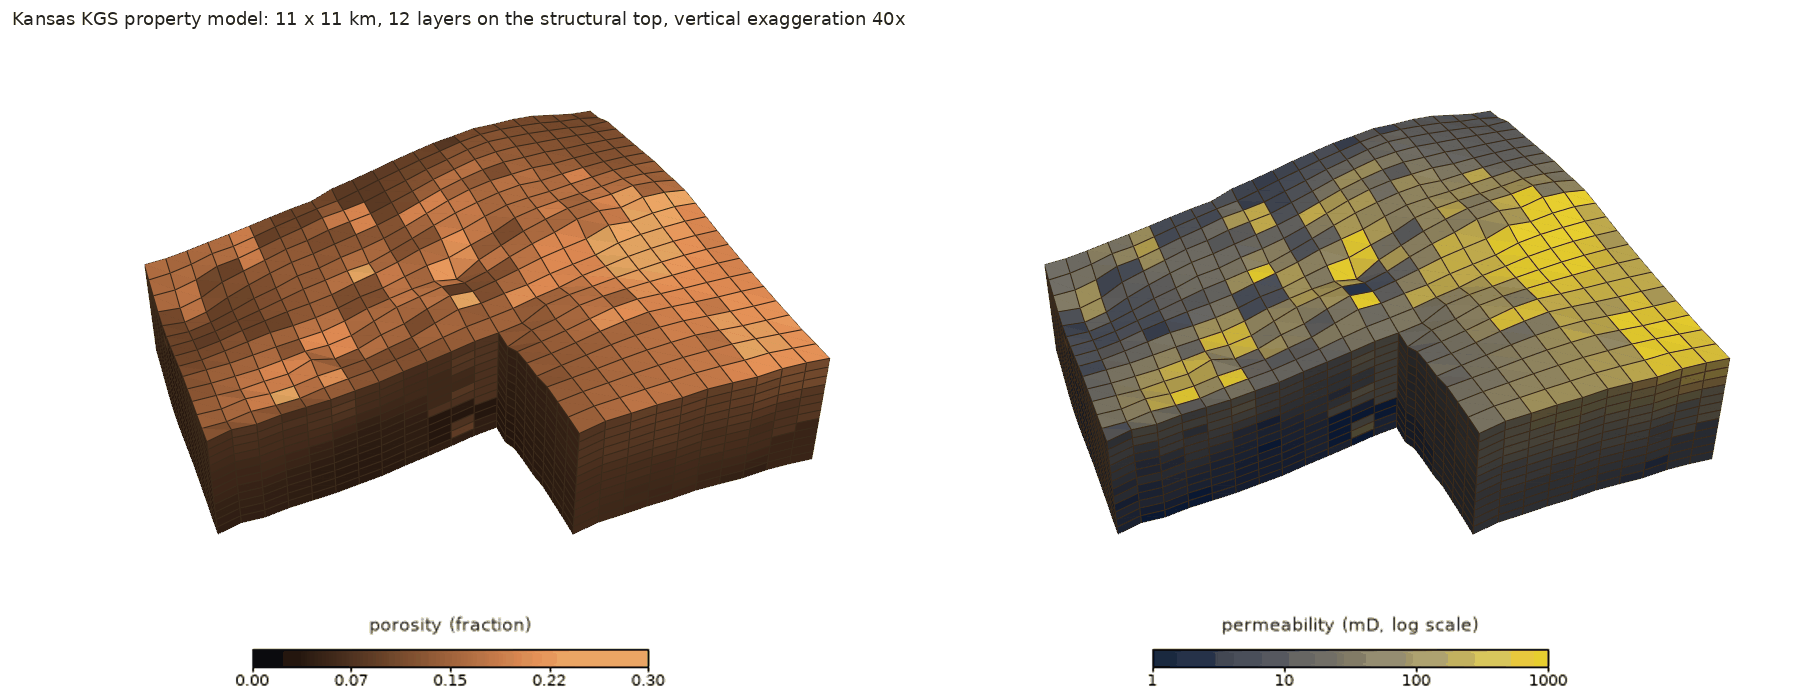
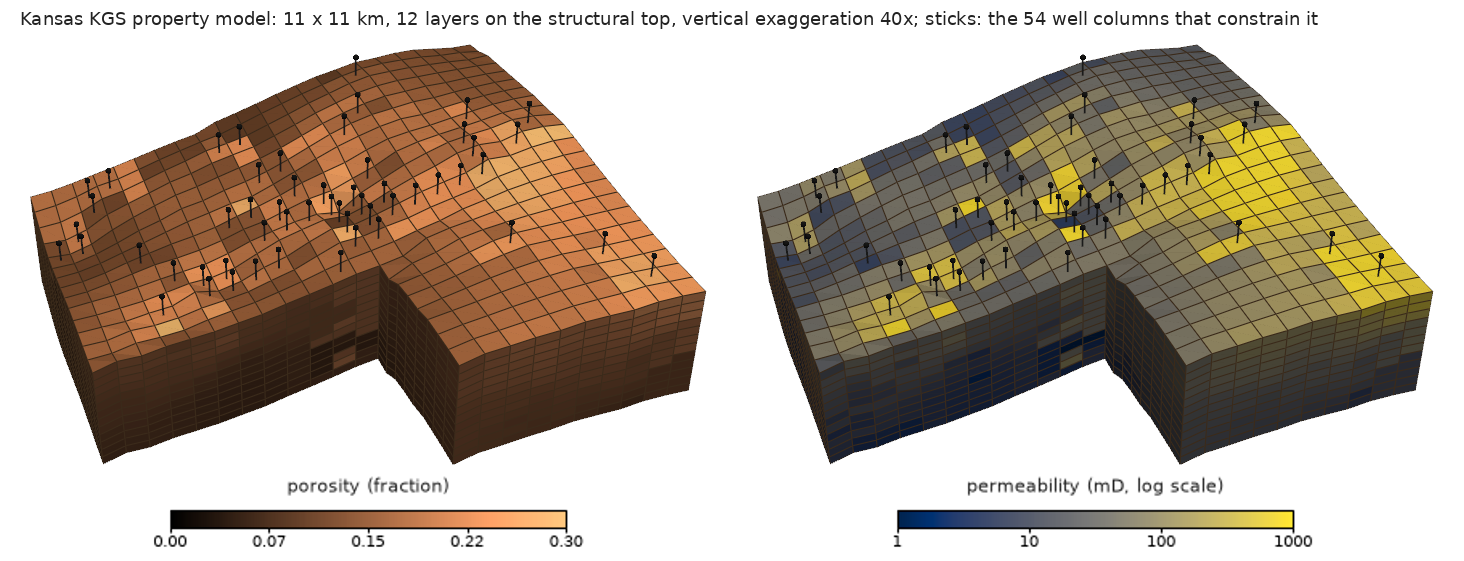
Hero figure: constraining wells as sticks, even margins

diff --git a/scripts/make_porosity_image.py b/scripts/make_porosity_image.py
@@ -4,7 +4,9 @@ and permeability on a log scale (right), each with its own colour bar.
     python scripts/make_porosity_image.py --out image/hero_3d_porosity_model.png
 
 ``--cmap`` (porosity, default ``copper``) and ``--perm-cmap`` (permeability, default ``cividis``) take any
-matplotlib colormap name; ``--porosity-only`` draws the porosity model alone.
+matplotlib colormap name; ``--porosity-only`` draws the porosity model alone. The wells that constrain the
+property model (the grid columns holding upscaled well data, ``idx`` in ``grid_upscaled.npz``) are drawn as short
+sticks standing on the top surface; ``--no-wells`` leaves them out and ``--well-height`` sets their height in m.
 """
 
 from __future__ import annotations
@@ -16,33 +18,62 @@ from pathlib import Path
 import numpy as np
 
 sys.path.insert(0, str(Path(__file__).resolve().parents[1] / "examples"))
-from kansas_window import kansas_structural  # noqa: E402
+from kansas_window import DATA, kansas_structural  # noqa: E402
 
 from subsurfix.viz3d import LayeredGrid, _colorbar_image  # noqa: E402
 
 
-def render(grid, values, cmap, clim, size, title, log=False):
+VEX = 40.0  # vertical exaggeration
+
+
+def well_columns(grid, data_dir=DATA):
+    """(x, y) of the grid columns holding upscaled well data, i.e. the wells that constrain the model."""
+    g = np.load(Path(data_dir) / "grid_upscaled.npz")
+    nx, ny, _ = grid.shape
+    cols = np.unique(np.asarray(g["idx"], int) % (nx * ny))
+    xs, ys = np.asarray(grid.xs, float), np.asarray(grid.ys, float)
+    return [(0.5 * (xs[c % nx] + xs[c % nx + 1]), 0.5 * (ys[c // nx] + ys[c // nx + 1])) for c in cols]
+
+
+def trim(img, pad):
+    """Crop the white border around the drawing and leave ``pad`` pixels on every side."""
+    from PIL import Image, ImageChops
+
+    box = ImageChops.difference(img, Image.new("RGB", img.size, "white")).getbbox()
+    out = Image.new("RGB", (box[2] - box[0] + 2 * pad, box[3] - box[1] + 2 * pad), "white")
+    out.paste(img.crop(box), (pad, pad))
+    return out
+
+
+def render(grid, values, cmap, clim, size, title, log=False, wells=(), well_height=12.0):
     import pyvista as pv
     from PIL import Image
 
     w, h = size
-    mesh = grid.to_pyvista().scale([1, 1, 40.0], inplace=False)
+    mesh = grid.to_pyvista().scale([1, 1, VEX], inplace=False)
     v = grid.to_display(np.asarray(values, float))
     mesh.cell_data["v"] = np.log10(v) if log else v
     pl = pv.Plotter(off_screen=True, window_size=(w, h))
     pl.set_background("white")
     pl.add_mesh(mesh, scalars="v", cmap=cmap, clim=[np.log10(c) for c in clim] if log else clim, show_edges=True,
                 edge_color="#3a2a1a", line_width=0.3, specular=0.0, show_scalar_bar=False)
+    if len(wells):
+        tops = np.array([[x, y, -grid.surface_depth(x, y) * VEX] for x, y in wells])
+        heads = tops + [0.0, 0.0, well_height * VEX]
+        for t, h in zip(tops, heads):
+            pl.add_mesh(pv.Line(t, h), color="#1a1a1a", line_width=2.0)
+        pl.add_points(heads, color="#1a1a1a", point_size=6.0, render_points_as_spheres=True)
     pl.view_vector((1.0, -0.35, 0.75), viewup=(0, 0, 1))
     pl.camera.zoom(1.25)
     shot = Image.fromarray(pl.screenshot(return_img=True)).convert("RGB")
     pl.close()
-    shot = shot.crop((0, 0, w, h - 60))  # trim the empty strip under the model
+    shot = trim(shot, 10)  # even margins around the model
     bar = _colorbar_image({"clim": clim, "cmap": cmap, "label": title, "bar_fmt": "%.2f", "log": log},
                           280, 54).resize((int(0.5 * w), int(0.5 * w * 54 / 280)))  # title above, ticks below
-    out = Image.new("RGB", (w, shot.height + bar.height), "white")
-    out.paste(shot, (0, 0))
-    out.paste(bar, ((w - bar.width) // 2, shot.height))
+    wd = max(shot.width, bar.width)
+    out = Image.new("RGB", (wd, shot.height + bar.height), "white")
+    out.paste(shot, ((wd - shot.width) // 2, 0))
+    out.paste(bar, ((wd - bar.width) // 2, shot.height))
     return out
 
 
@@ -55,6 +86,8 @@ def main():
     ap.add_argument("--perm-clim", default="1,1000", help="permeability colour limits in mD 'lo,hi' (log scale)")
     ap.add_argument("--size", default="900,640", help="size of each panel 'w,h'")
     ap.add_argument("--porosity-only", action="store_true")
+    ap.add_argument("--no-wells", action="store_true", help="do not draw the constraining wells")
+    ap.add_argument("--well-height", type=float, default=12.0, help="well stick height above the top, m")
     a = ap.parse_args()
     from PIL import Image, ImageDraw, ImageFont
 
@@ -62,20 +95,28 @@ def main():
     nz = bm["dims"][2]
     grid = LayeredGrid(bm["xs"], bm["ys"], bm["top_nodes"], nz, bm["cell"][2], bm["active"])
     size = tuple(int(v) for v in a.size.split(","))
-    panels = [render(grid, bm["phi"], a.cmap, tuple(float(v) for v in a.clim.split(",")), size, "porosity (fraction)")]
+    wk = {"wells": [] if a.no_wells else well_columns(grid), "well_height": a.well_height}
+    panels = [render(grid, bm["phi"], a.cmap, tuple(float(v) for v in a.clim.split(",")), size, "porosity (fraction)",
+                     **wk)]
     if not a.porosity_only:
         panels.append(render(grid, bm["k_md"], a.perm_cmap, tuple(float(v) for v in a.perm_clim.split(",")), size,
-                             "permeability (mD, log scale)", log=True))
-    head = 34
-    out = Image.new("RGB", (sum(p.width for p in panels), panels[0].height + head), "white")
-    for n, p in enumerate(panels):
-        out.paste(p, (n * size[0], head))
+                             "permeability (mD, log scale)", log=True, **wk))
+    head, gap, side = 34, 30, 20
+    out = Image.new("RGB", (sum(p.width for p in panels) + gap * (len(panels) - 1) + 2 * side,
+                            max(p.height for p in panels) + head), "white")
+    x = side
+    for p in panels:
+        out.paste(p, (x, head))
+        x += p.width + gap
     d = ImageDraw.Draw(out)
     try:
         font = ImageFont.truetype("DejaVuSans.ttf", 18)
     except OSError:
         font = ImageFont.load_default()
-    d.text((12, 8), "Kansas KGS property model: 11 x 11 km, 12 layers on the structural top, vertical exaggeration 40x",
+    title = "Kansas KGS property model: 11 x 11 km, 12 layers on the structural top, vertical exaggeration 40x"
+    if wk["wells"]:
+        title += f"; sticks: the {len(wk['wells'])} well columns that constrain it"
+    d.text((side, 8), title,
            fill="#222222", font=font)
     out.save(a.out)
     print(a.out, out.size)
